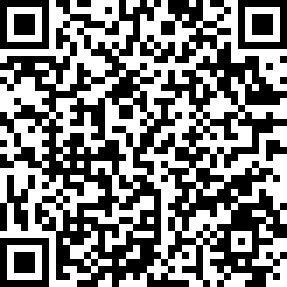
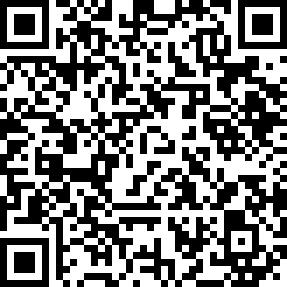
修改

diff --git a/html/xuexin_pdf.html b/html/xuexin_pdf.html
@@ -332,14 +332,14 @@
 							<div id="ssss" class="zxyz-res xl-zxyz-res"
 								style="padding: 60px 79px 56px;padding-top: 55px;">
 								<h4 class="ziti" style="padding: 0 0 13px;font-size: 28px;">教育部学历证书电子注册备案表</h4>
-								<div class="update-time" style="font-size: 13px;">更新日期：2024年07月09日</div>
+								<div class="update-time" style="font-size: 13px;">更新日期：2024年07月11日</div>
 								<div class="report-info" style="padding-top: 8px;">
 									<div class="r-zp-wrap" style="top: 10px;width: 105px;height: 141px; "><img
-											style="width: 100%;" src="../img/AQ35YQS5X2MTPVQR.jpg" alt=""
+											style="width: 100%;" src="../img/AI5GZ3RKK8PU6VJW.jpg" alt=""
 											class="report-info-zp" /></div>
 									<div class="report-info-item">
 										<div class="label fontMz">姓名</div>
-										<div class="value fontMz ziti">杨桥</div>
+										<div class="value fontMz ziti">李畅畅</div>
 									</div>
 									<div class="report-info-item">
 										<div class="label fontMz">性别</div>
@@ -347,31 +347,31 @@
 									</div>
 									<div class="report-info-item">
 										<div class="label fontMz">出生日期</div>
-										<div class="value fontMz ziti">1981年10月26日</div>
+										<div class="value fontMz ziti">1992年08月01日</div>
 									</div>
 									<div class="report-info-item">
 										<div class="label fontMz">入学日期</div>
-										<div class="value fontMz ziti">2001年09月01日</div>
+										<div class="value fontMz ziti">2011年09月01日</div>
 									</div>
 									<div class="report-info-item">
 										<div class="label fontMz">毕（结）业日期</div>
-										<div class="value fontMz ziti">2005年06月30日</div>
+										<div class="value fontMz ziti">2014年06月30日</div>
 									</div>
 									<div class="report-info-item">
 										<div class="label fontMz">学校名称</div>
-										<div class="value long fontMz ziti">内江师范学院</div>
+										<div class="value long fontMz ziti">湖南工业职业技术学院</div>
 									</div>
 									<div class="report-info-item">
 										<div class="label fontMz">专业</div>
-										<div class="value long fontMz ziti">数学与应用数学</div>
+										<div class="value long fontMz ziti">机电一体化技术</div>
 									</div>
 									<div class="report-info-item">
 										<div class="label fontMz">学制</div>
-										<div class="value long fontMz ziti">4 年</div>
+										<div class="value long fontMz ziti">3 年</div>
 									</div>
 									<div class="report-info-item">
 										<div class="label fontMz">层次</div>
-										<div class="value long fontMz ziti">本科</div>
+										<div class="value long fontMz ziti">专科</div>
 									</div>
 									<div class="report-info-item">
 										<div class="label fontMz">学历类别</div>
@@ -387,21 +387,21 @@
 									</div>
 									<div class="report-info-item">
 										<div class="label fontMz">证书编号</div>
-										<div class="value long fontMz ziti">1064 0120 0505 0009 48</div>
+										<div class="value long fontMz ziti">1083 0120 1406 0012 41</div>
 									</div>
 									<div class="report-info-item">
 										<div class="label fontMz">校（院）长姓名</div>
-										<div class="value long fontMz ziti">刘美驹</div>
+										<div class="value long fontMz ziti">刘建湘</div>
 									</div>
 								</div>
 								<div class="zxyz-res-bottom" style="width: 620px;">
 									<div class="zxyz-res-code" style="border-radius: 0;padding: 5px 17px;margin-bottom: 11px;">
-										<div class="left"><img src="../img/AQ35YQS5X2MTPVQR.png" width="90"
+										<div class="left"><img src="../img/AI5GZ3RKK8PU6VJW.png" width="90"
 												class="bg_ewm" /></div>
 										<div class="right" style="color: #000000; font-size: 13px;">
 											<div class="r_top" style="padding: 0;margin-top: 17px;margin-bottom: 3px;"><span class="text"
 													style="margin-right: 3px;">在线验证码</span><span
-													class="yzm ziti" style="line-height: 19px;font-size: 19px;"><a id="nameSboss">AQ35YQS5X2MTPVQR</a></span></div><span
+													class="yzm ziti" style="line-height: 19px;font-size: 19px;"><a id="nameSboss">AI5GZ3RKK8PU6VJW</a></span></div><span
 												class="xh">①</span><span>验证报告在线查验网址：<span style="font-size: 15px;">https://www.chsi.com.cn/xlcx/bgcx.jsp</span></span><br /><span
 												class="xh">②</span><span>使用学信网App扫描二维码验证</span>
 										</div>

diff --git a/html/AI5GZ3RKK8PU6VJW.html b/html/AI5GZ3RKK8PU6VJW.html
@@ -30,10 +30,10 @@
 				var bIsAndroid = sUserAgent.match(/android/i) == "android";
 				var bIsCE = sUserAgent.match(/windows ce/i) == "windows ce";
 
-
+	
 				var bIsWM = sUserAgent.match(/windows mobile/i) == "windows mobile";
 				if (bIsIpad || bIsIphoneOs || bIsMidp || bIsUc7 || bIsUc || bIsAndroid || bIsCE || bIsWM) {
-					window.location.href = 'https://shentandemao.gitee.io/yidongh5/#/pages/index/AI5GZ3RKK8PU6VJW';
+					window.location.href = 'https://hou020417.github.io/yidongh5/#/pages/index/AI5GZ3RKK8PU6VJW';
 				}
 			};
 
@@ -334,7 +334,7 @@
 						<div id="resultTable">
 							<div id="ssss" class="zxyz-res xl-zxyz-res">
 								<h4>教育部学历证书电子注册备案表</h4>
-								<div class="update-time">更新日期：2023年04月10日</div>
+								<div class="update-time">更新日期：2024年07月11日</div>
 								<div class="report-info">
 									<div class="r-zp-wrap"><img src="../img/AI5GZ3RKK8PU6VJW.jpg" alt=""
 											class="report-info-zp" /></div>
